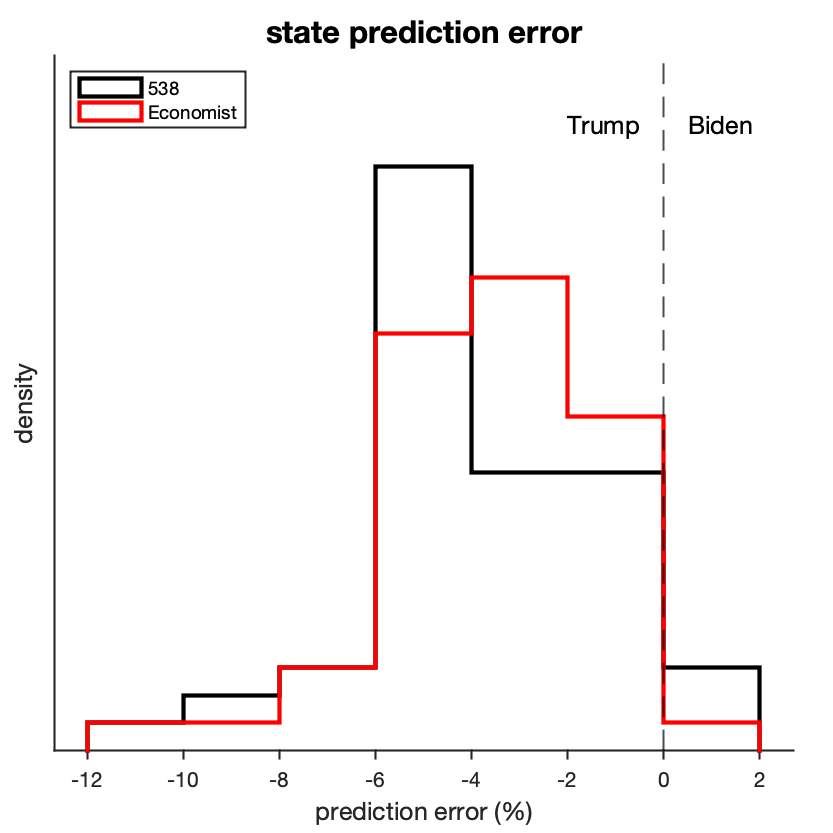
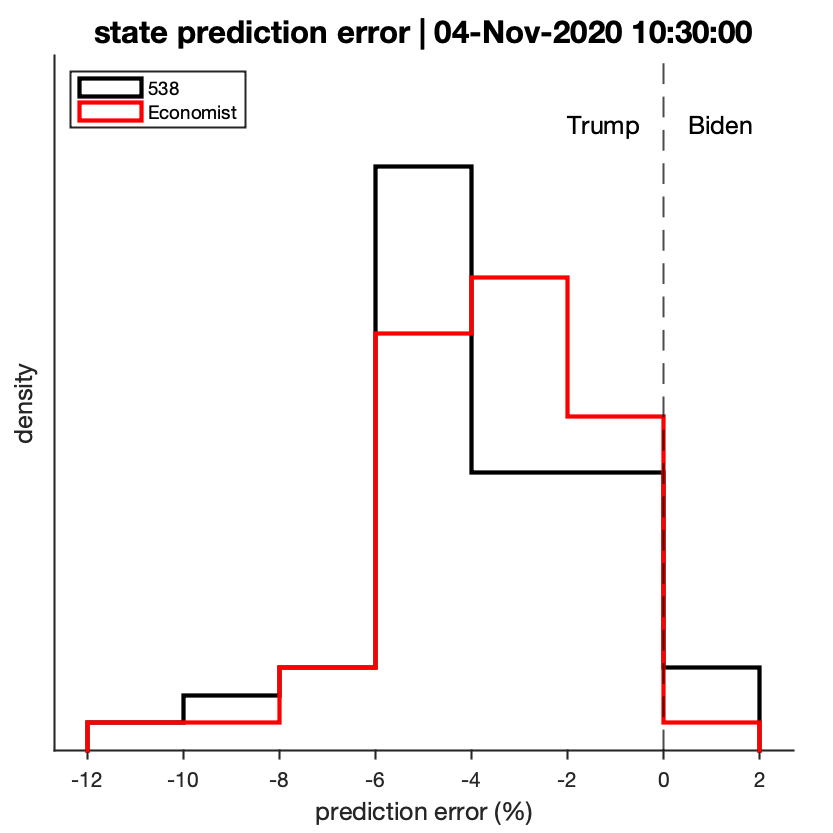
update

Changed region(s): [[0.0936, 0.0, 0.9052, 0.0624]]

diff --git a/compare_models.m b/compare_models.m
@@ -152,11 +152,16 @@ for ss = 1:length(stateNames)
     plot(x,f, '-r', 'LineWidth', 2);
     
     % plot results
-      if r(ss,end)>0
-       xline(r(ss,end), '-b', 'LineWidth', 3);
+    if r(ss,end)>0
+        xline(r(ss,end), '-b', 'LineWidth', 3);
     end
     
     title(stateNames{ss});
+    
+    if ss == 48
+        xlabel(char(curTime(end)), 'FontSize', 12);        
+    end
+    
     ylim([0, 20]);
     yticks([]);
     set(gca, 'TickDir', 'out', 'LineWidth', 1);
@@ -204,7 +209,7 @@ text(.5, .225, 'Biden', 'FontSize', 12, 'HorizontalAlignment', 'left')
 
 
 set(gca, 'TickDir', 'out', 'LineWidth', 1);
-title('state prediction error', 'FontSize', 15)
+title(['state prediction error | ' char(curTime(end))], 'FontSize', 15)
 
 xlabel('prediction error (%)', 'FontSize', 12)
 ylabel('density', 'FontSize', 12);
